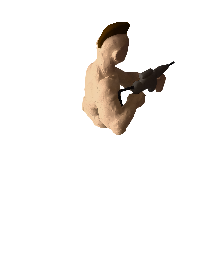
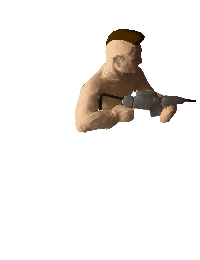
weapon animation rigging. Remove pistol and put in rocket and thrower

Changed region(s): [[0.36, 0.0615, 0.99, 0.5231]]

diff --git a/src/main/java/com/bitdecay/game/component/AnimationComponent.java b/src/main/java/com/bitdecay/game/component/AnimationComponent.java
@@ -1,18 +1,12 @@
 package com.bitdecay.game.component;
 
 import com.badlogic.gdx.graphics.g2d.TextureRegion;
-import com.bitdecay.game.Launcher;
-import com.bitdecay.game.MyGame;
 import com.bitdecay.game.animation.Animation;
 import com.bitdecay.game.animation.AnimationDirection;
 import com.bitdecay.game.animation.AnimationState;
-import com.bytebreakstudios.animagic.animation.FrameRate;
-import com.bytebreakstudios.animagic.texture.AnimagicTextureRegion;
+import com.bitdecay.game.animation.AnimationUtils;
 import com.typesafe.config.Config;
 
-import java.util.ArrayList;
-import java.util.HashMap;
-import java.util.List;
 import java.util.Map;
 
 /**
@@ -25,42 +19,7 @@ public class AnimationComponent extends DrawableComponent {
 
     public AnimationComponent(Config conf) {
         String bundle = conf.getString("bundle");
-        animations = AnimationComponent.parseAnimationBundle(bundle);
-    }
-
-    private static Map<AnimationState, Map<AnimationDirection, Animation>> parseAnimationBundle(String bundleName) {
-        Map<AnimationState, Map<AnimationDirection, Animation>> map = new HashMap<>();
-        Config bundleConf = Launcher.conf.getConfig("animation_bundles." + bundleName);
-        for (AnimationState state : AnimationState.values()) {
-            String stateText = state.name().toLowerCase();
-            if (bundleConf.hasPath(stateText)) {
-                String statePath = "animations." + bundleConf.getString(stateText);
-                if (Launcher.conf.hasPath(statePath)) {
-                    map.put(state, AnimationComponent.parseAnimationState(Launcher.conf.getConfig(statePath)));
-                }
-            }
-        }
-        return map;
-    }
-
-    private static Map<AnimationDirection, Animation> parseAnimationState(Config config) {
-        Map<AnimationDirection, Animation> directionMap = new HashMap<>();
-        for (AnimationDirection direction : AnimationDirection.values()) {
-            String dirName = direction.name().toLowerCase();
-            if (config.hasPath(dirName)) {
-                Config dirConf = config.getConfig(dirName);
-                List<String> framePaths = dirConf.getStringList("frames");
-                ArrayList<TextureRegion> regions = new ArrayList<>();
-                for (String framePath : framePaths) {
-                    for (AnimagicTextureRegion animagicTextureRegion : MyGame.ATLAS.findRegions(framePath)) {
-                        regions.add(animagicTextureRegion);
-                    }
-                }
-                Animation animation = new Animation("name", com.bytebreakstudios.animagic.animation.Animation.AnimationPlayState.REPEAT, FrameRate.perFrame(0.1f), regions.toArray(new TextureRegion[regions.size()]));
-                directionMap.put(direction, animation);
-            }
-        }
-        return directionMap;
+        animations = AnimationUtils.parseAnimationBundle(bundle);
     }
 
     @Override

diff --git a/src/main/java/com/bitdecay/game/animation/AnimationUtils.java b/src/main/java/com/bitdecay/game/animation/AnimationUtils.java
@@ -1,11 +1,56 @@
 package com.bitdecay.game.animation;
 
+import com.badlogic.gdx.graphics.g2d.TextureRegion;
 import com.badlogic.gdx.math.Vector2;
+import com.bitdecay.game.Launcher;
+import com.bitdecay.game.MyGame;
+import com.bytebreakstudios.animagic.animation.FrameRate;
+import com.bytebreakstudios.animagic.texture.AnimagicTextureRegion;
+import com.typesafe.config.Config;
+
+import java.util.ArrayList;
+import java.util.HashMap;
+import java.util.List;
+import java.util.Map;
 
 /**
  * Created by Monday on 7/29/2017.
  */
 public class AnimationUtils {
+    public static Map<AnimationState, Map<AnimationDirection, Animation>> parseAnimationBundle(String bundleName) {
+        Map<AnimationState, Map<AnimationDirection, Animation>> map = new HashMap<>();
+        Config bundleConf = Launcher.conf.getConfig("animation_bundles." + bundleName);
+        for (AnimationState state : AnimationState.values()) {
+            String stateText = state.name().toLowerCase();
+            if (bundleConf.hasPath(stateText)) {
+                String statePath = "animations." + bundleConf.getString(stateText);
+                if (Launcher.conf.hasPath(statePath)) {
+                    map.put(state, parseAnimationState(Launcher.conf.getConfig(statePath)));
+                }
+            }
+        }
+        return map;
+    }
+
+    public static Map<AnimationDirection, Animation> parseAnimationState(Config config) {
+        Map<AnimationDirection, Animation> directionMap = new HashMap<>();
+        for (AnimationDirection direction : AnimationDirection.values()) {
+            String dirName = direction.name().toLowerCase();
+            if (config.hasPath(dirName)) {
+                Config dirConf = config.getConfig(dirName);
+                List<String> framePaths = dirConf.getStringList("frames");
+                ArrayList<TextureRegion> regions = new ArrayList<>();
+                for (String framePath : framePaths) {
+                    for (AnimagicTextureRegion animagicTextureRegion : MyGame.ATLAS.findRegions(framePath)) {
+                        regions.add(animagicTextureRegion);
+                    }
+                }
+                Animation animation = new Animation("name", com.bytebreakstudios.animagic.animation.Animation.AnimationPlayState.REPEAT, FrameRate.perFrame(0.1f), regions.toArray(new TextureRegion[regions.size()]));
+                directionMap.put(direction, animation);
+            }
+        }
+        return directionMap;
+    }
 
     public static AnimationState getStateFromVelocity(Vector2 velocity) {
         if (velocity.len() > 0.2f) {

diff --git a/src/main/java/com/bitdecay/game/system/ShootSystem.java b/src/main/java/com/bitdecay/game/system/ShootSystem.java
@@ -3,7 +3,6 @@ package com.bitdecay.game.system;
 import com.bitdecay.game.component.PositionComponent;
 import com.bitdecay.game.component.ShootComponent;
 import com.bitdecay.game.component.WeaponComponent;
-import com.bitdecay.game.component.WeaponSelectionComponent;
 import com.bitdecay.game.event.EventReactor;
 import com.bitdecay.game.event.MachineGunFireEvent;
 import com.bitdecay.game.event.ReloadShotgunEvent;
@@ -11,6 +10,7 @@ import com.bitdecay.game.event.ShotgunFireEvent;
 import com.bitdecay.game.gameobject.MyGameObject;
 import com.bitdecay.game.room.AbstractRoom;
 import com.bitdecay.game.system.abstracted.AbstractForEachUpdatableSystem;
+import com.bitdecay.game.weapon.WeaponUtils;
 
 import java.util.List;
 
@@ -28,11 +28,8 @@ public class ShootSystem extends AbstractForEachUpdatableSystem {
     protected void forEach(float delta, MyGameObject gob) {
         PositionComponent pos = gob.getComponent(PositionComponent.class).get();
         ShootComponent shoot = gob.getComponent(ShootComponent.class).get();
-        WeaponSelectionComponent weaponSelection = gob.getComponent(WeaponSelectionComponent.class).get();
-        int weaponCount = gob.getComponentCount(WeaponComponent.class);
 
-        int selectedWeaponIndex = weaponSelection.selectedIndex % weaponCount;
-        WeaponComponent weapon = (WeaponComponent) gob.getComponentByIndex(WeaponComponent.class, selectedWeaponIndex).get();
+        WeaponComponent weapon = WeaponUtils.getSelectedWeaponComponent(gob);
 
         // TODO: do some logic to only shoot the weapon at the correct speed and don't shoot if there are more than the max bullets
         if ((shoot.x != 0 || shoot.y != 0) && weapon.cooldown <= 0 && (weapon.unlimitedAmmo || weapon.ammo > 0)){

diff --git a/src/main/java/com/bitdecay/game/component/WeaponComponent.java b/src/main/java/com/bitdecay/game/component/WeaponComponent.java
@@ -1,8 +1,15 @@
 package com.bitdecay.game.component;
 
+import com.bitdecay.game.animation.Animation;
+import com.bitdecay.game.animation.AnimationDirection;
+import com.bitdecay.game.animation.AnimationState;
+import com.bitdecay.game.animation.AnimationUtils;
 import com.bitdecay.game.pattern.AbstractBulletPattern;
 import com.bitdecay.game.pattern.BulletPatternFactory;
 import com.typesafe.config.Config;
+
+import java.util.HashMap;
+import java.util.Map;
 
 public class WeaponComponent extends AbstractComponent {
     public String weaponName;
@@ -12,6 +19,8 @@ public class WeaponComponent extends AbstractComponent {
     public boolean unlimitedAmmo = false;
     public float secondsPerBullet = 1;
     public float cooldown = 0;
+
+    public Map<AnimationState, Map<AnimationDirection, Animation>> animationMap = new HashMap<>();
 
     private WeaponComponent(String weaponName, String bullet, String pattern, float bulletsPerSecond, int maxBullets, int ammo, Boolean unlimitedAmmo){
         this.weaponName = weaponName;
@@ -29,5 +38,6 @@ public class WeaponComponent extends AbstractComponent {
         secondsPerBullet = (float) conf.getDouble("secondsPerBullet");
         ammo = conf.getInt("ammo");
         unlimitedAmmo = conf.getBoolean("unlimitedAmmo");
+        animationMap = AnimationUtils.parseAnimationBundle(conf.getString("animationBundle"));
     }
 }

diff --git a/src/main/java/com/bitdecay/game/system/WeaponAnimationSystem.java b/src/main/java/com/bitdecay/game/system/WeaponAnimationSystem.java
@@ -1,0 +1,35 @@
+package com.bitdecay.game.system;
+
+import com.bitdecay.game.component.AimingAnimationComponent;
+import com.bitdecay.game.component.WeaponComponent;
+import com.bitdecay.game.component.WeaponSelectionComponent;
+import com.bitdecay.game.gameobject.MyGameObject;
+import com.bitdecay.game.room.AbstractRoom;
+import com.bitdecay.game.system.abstracted.AbstractForEachUpdatableSystem;
+import com.bitdecay.game.weapon.WeaponUtils;
+
+/**
+ * Created by Monday on 7/29/2017.
+ */
+public class WeaponAnimationSystem extends AbstractForEachUpdatableSystem {
+    public WeaponAnimationSystem(AbstractRoom room) {
+        super(room);
+    }
+
+    @Override
+    protected void forEach(float delta, MyGameObject gob) {
+        WeaponComponent selectedWeaponComponent = WeaponUtils.getSelectedWeaponComponent(gob);
+        gob.forEachComponentDo(AimingAnimationComponent.class, animation -> {
+            animation.animations = selectedWeaponComponent.animationMap;
+        });
+    }
+
+    @Override
+    protected boolean validateGob(MyGameObject gob) {
+        return gob.hasComponents(
+                WeaponComponent.class,
+                WeaponSelectionComponent.class,
+                AimingAnimationComponent.class
+                );
+    }
+}

diff --git a/src/main/java/com/bitdecay/game/weapon/WeaponUtils.java b/src/main/java/com/bitdecay/game/weapon/WeaponUtils.java
@@ -1,0 +1,18 @@
+package com.bitdecay.game.weapon;
+
+import com.bitdecay.game.component.WeaponComponent;
+import com.bitdecay.game.component.WeaponSelectionComponent;
+import com.bitdecay.game.gameobject.MyGameObject;
+
+/**
+ * Created by Monday on 7/29/2017.
+ */
+public class WeaponUtils {
+    public static WeaponComponent getSelectedWeaponComponent(MyGameObject gob) {
+        WeaponSelectionComponent weaponSelection = gob.getComponent(WeaponSelectionComponent.class).get();
+        int weaponCount = gob.getComponentCount(WeaponComponent.class);
+
+        int selectedWeaponIndex = weaponSelection.selectedIndex % weaponCount;
+        return (WeaponComponent) gob.getComponentByIndex(WeaponComponent.class, selectedWeaponIndex).get();
+    }
+}

diff --git a/src/main/java/com/bitdecay/game/system/KeyboardWeaponChangeSystem.java b/src/main/java/com/bitdecay/game/system/KeyboardWeaponChangeSystem.java
@@ -2,7 +2,6 @@ package com.bitdecay.game.system;
 
 import com.badlogic.gdx.Input;
 import com.bitdecay.game.component.PlayerInputComponent;
-import com.bitdecay.game.component.ShootComponent;
 import com.bitdecay.game.component.WeaponSelectionComponent;
 import com.bitdecay.game.gameobject.MyGameObject;
 import com.bitdecay.game.room.AbstractRoom;
@@ -13,6 +12,8 @@ import com.bitdecay.game.util.InputHelper;
  * Created by tristan on 7/29/17.
  */
 public class KeyboardWeaponChangeSystem extends AbstractUpdatableSystem {
+
+
     public KeyboardWeaponChangeSystem(AbstractRoom room) { super(room); }
 
     @Override

diff --git a/src/main/java/com/bitdecay/game/room/MikeRoom.java b/src/main/java/com/bitdecay/game/room/MikeRoom.java
@@ -40,6 +40,7 @@ public class MikeRoom extends AbstractRoom {
         new ChangeFloorsSystem(this);
         new AimingAnimationSystem(this);
         new MovingAnimationSystem(this);
+        new WeaponAnimationSystem(this);
         new SoundSystem(this);
         new AiSystem(this);
 
